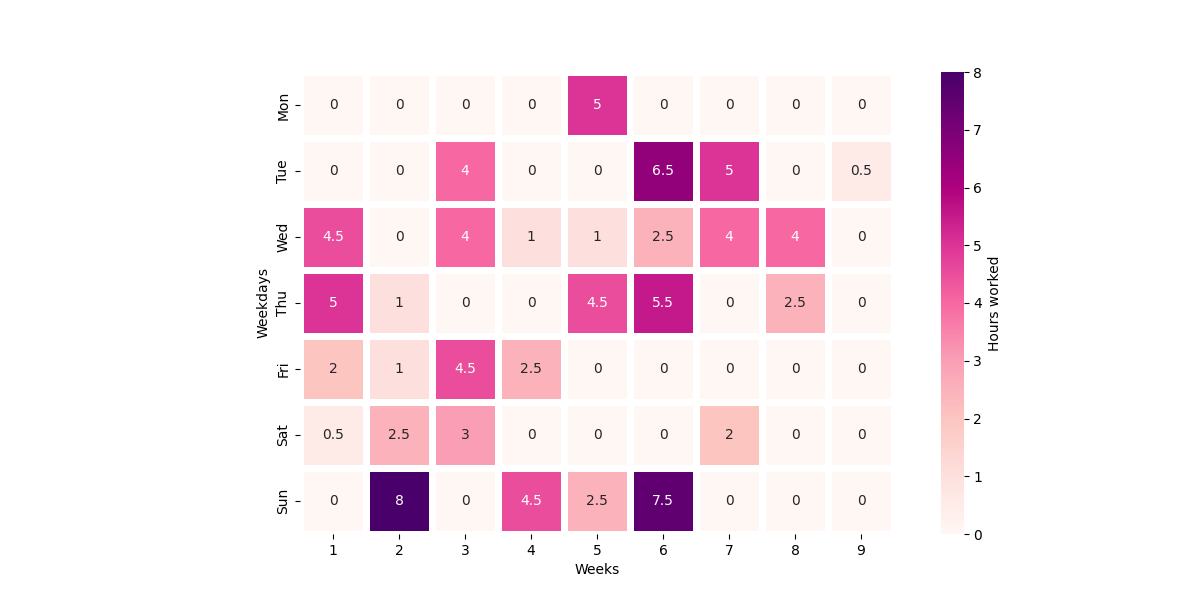
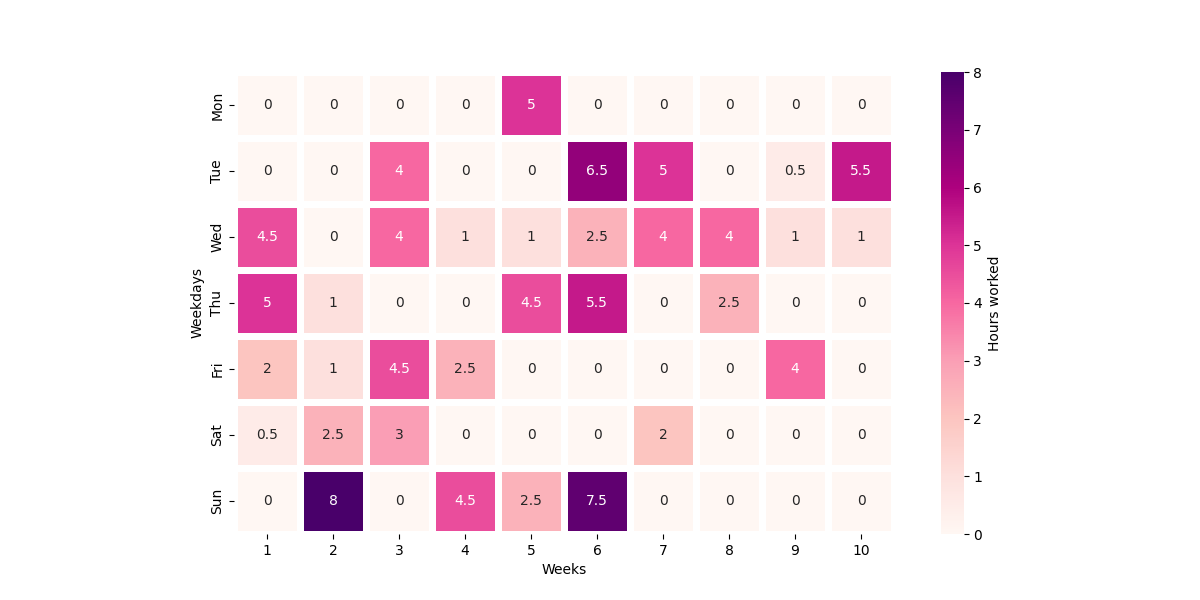
Update timelog 24/11/2021

diff --git a/timelog.md b/timelog.md
@@ -211,3 +211,8 @@
 * *2.5 hours* Debugged new implementation in quinn and tried to test it. Can't seem to generate the right certificates that their example would work with. The [example they provide](https://quinn-rs.github.io/quinn/quinn/certificate.html) for generating certificates is also outdated and does not work.
 * *2 hours* Read into ssl/tls certificates more and the rustls library to try to figure out why the certificates that I am generating do not work with the [quinn example server](https://github.com/quinn-rs/quinn/blob/main/quinn/examples/server.rs).
 * *1 hours* Tried to modify the quinn examples to use pem instead of der but neither work.
+
+### 24 Nov 2021
+
+* *0.5 hours* Meeting with supervisor
+* *0.5 hours* Aggregated meeting notes

diff --git a/meetings/24112021.md b/meetings/24112021.md
@@ -1,0 +1,21 @@
+# 02 Nov 2021
+
+## Progress
+
+* Figured out that quiche does not support async
+* Tried to create wraper using tokio for quiche but this would take too much time
+* Explored quinn as a possible alternative to using quiche
+* Re-wrote the library using quinn but the tls certificate generation method provided does not work
+
+## Questions
+
+* Possible solutions (things that I have missed) for solving the tls certificate issue
+
+## Notes
+
+* Can ask about this issue on the QUIC slack channel
+
+## Plan for this week
+
+* Continue trying to use quinn implementation
+* Ask on slack about possible solutions to the certificate generation problem
